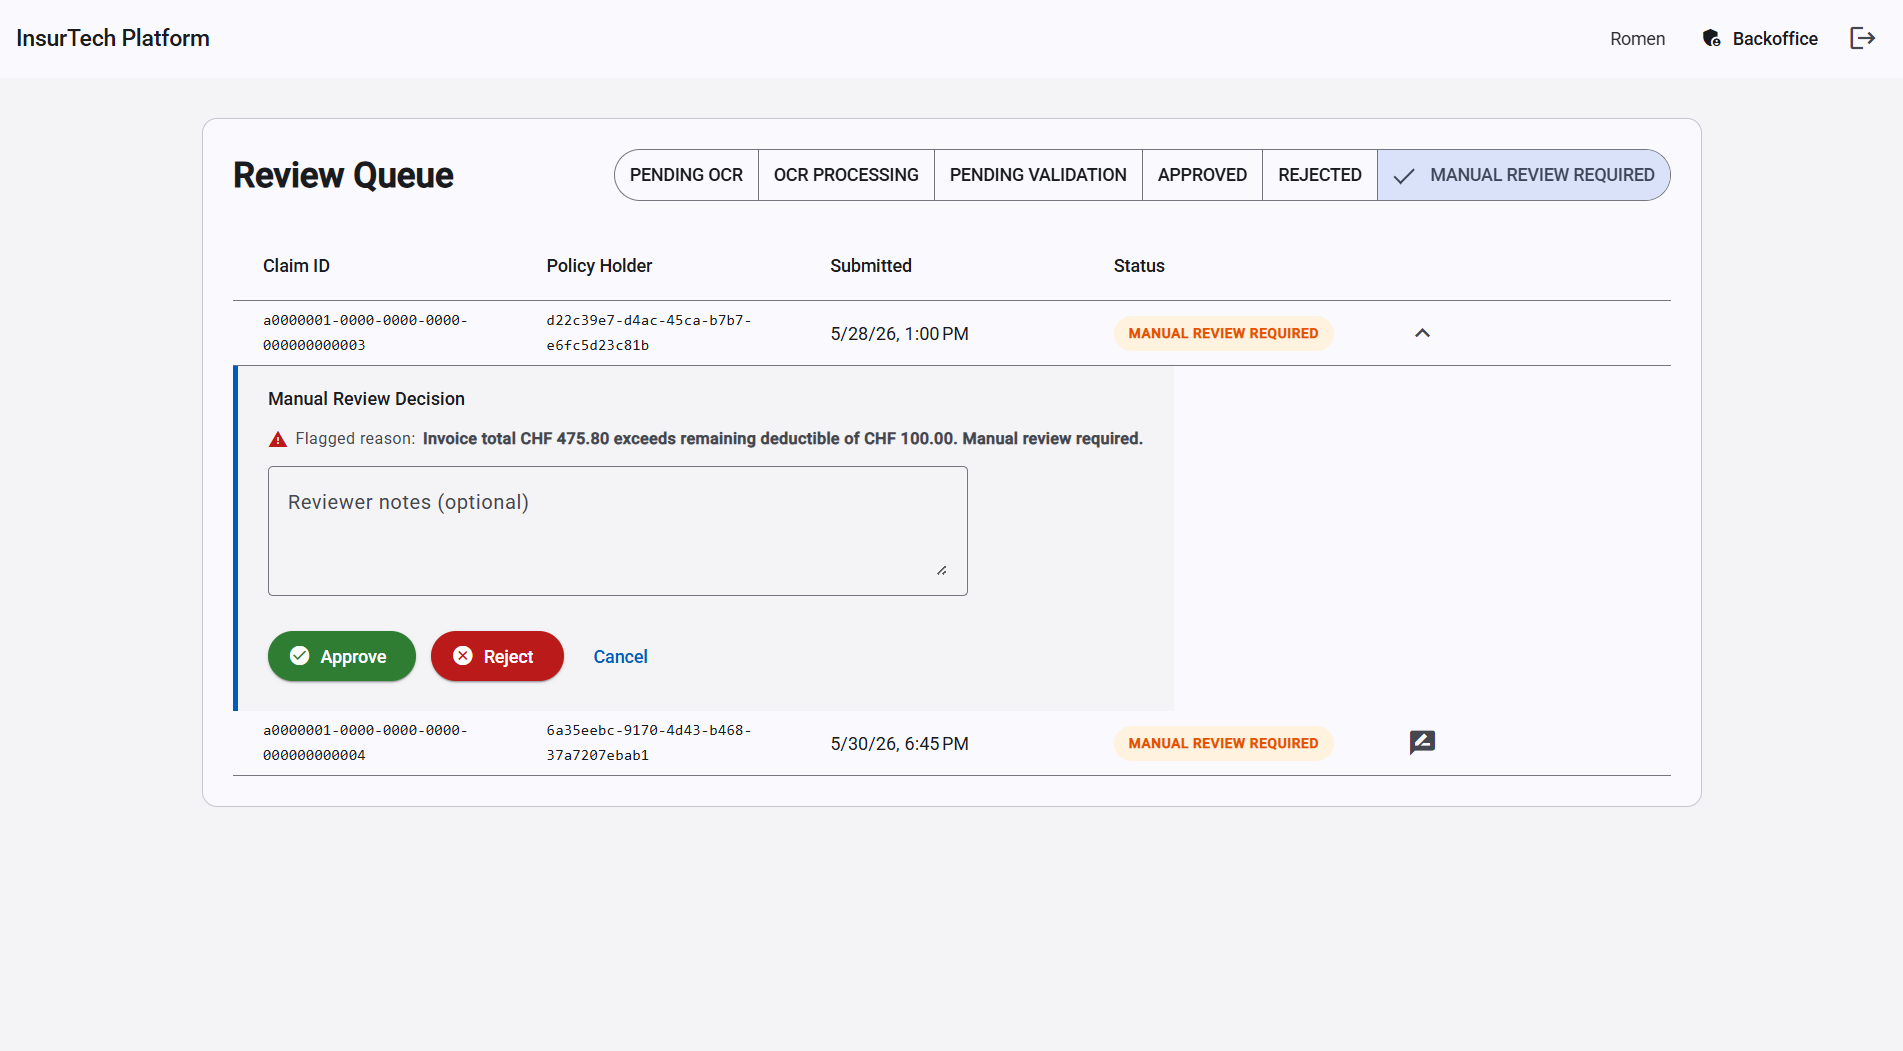
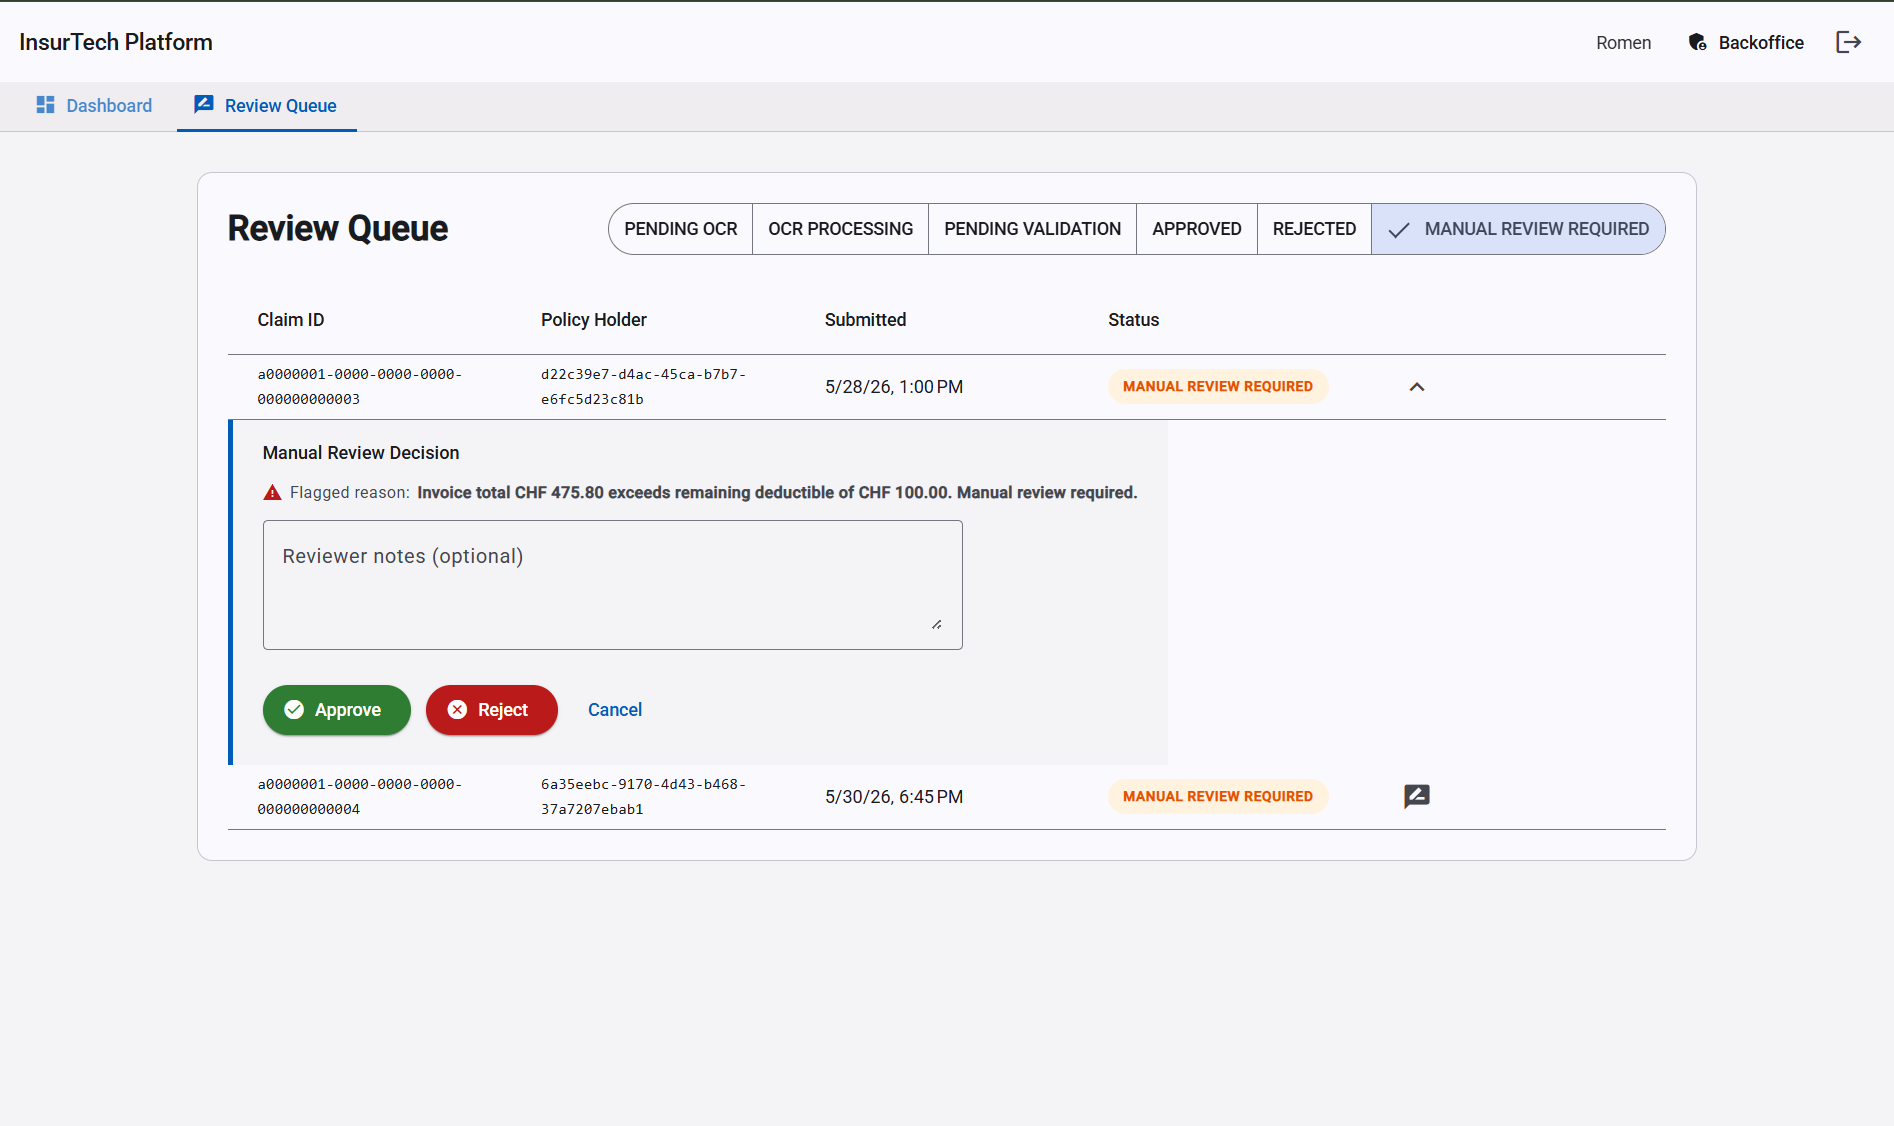
docs: add Operations Dashboard screenshot to README

diff --git a/README.md b/README.md
@@ -95,6 +95,11 @@ Platform capabilities at a glance:
 
 ![Submit Claim](docs/customer_upload_invoice_dialog.png)
 
+### Backoffice — Operations Dashboard
+> Landing page for reviewers: real-time stat cards (total / auto-approved / needs review / in-pipeline / rejected), a claims pipeline bar chart across all 6 states, quick access to the review queue with a pending badge, and system status indicators.
+
+![Operations Dashboard](docs/backoffice_dashboard.png)
+
 ### Backoffice — Review Queue
 > Role-gated reviewer dashboard showing all claims. The button-toggle filter switches between pipeline states.
 